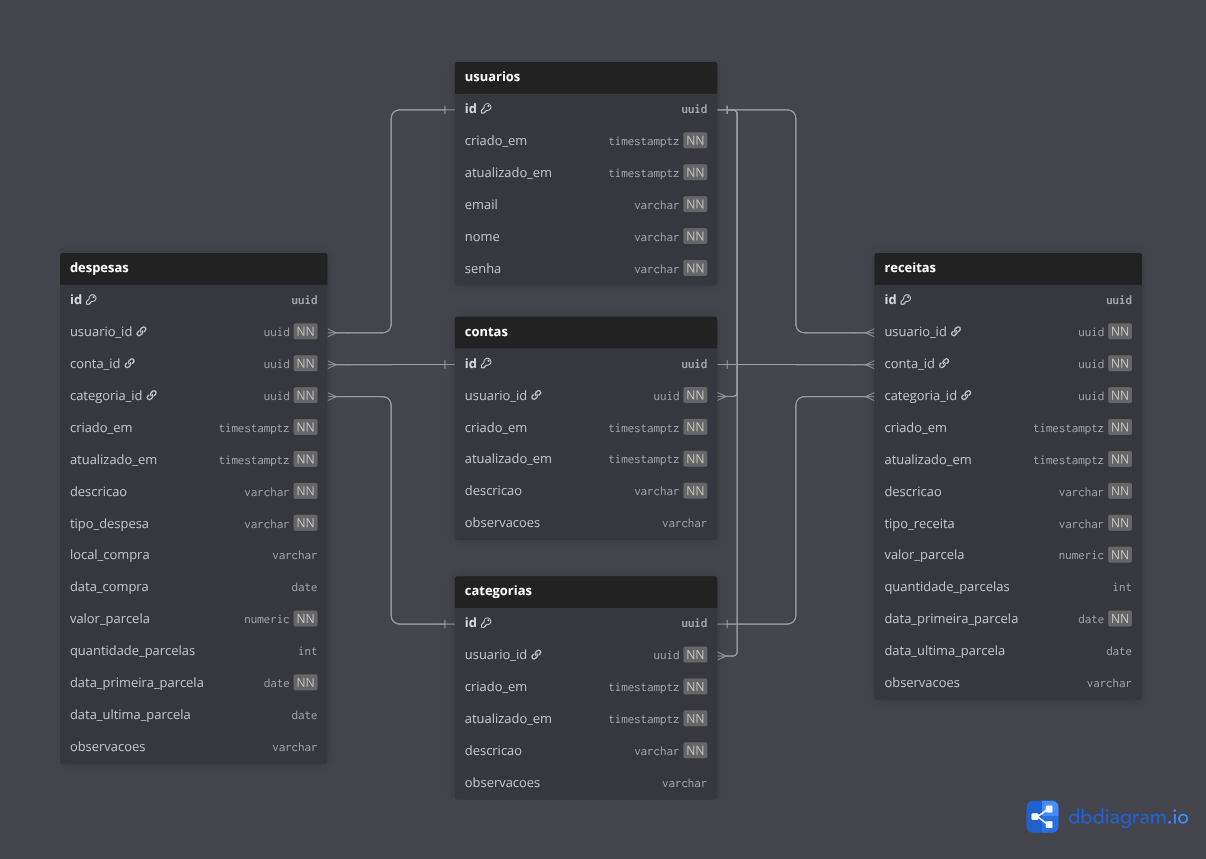
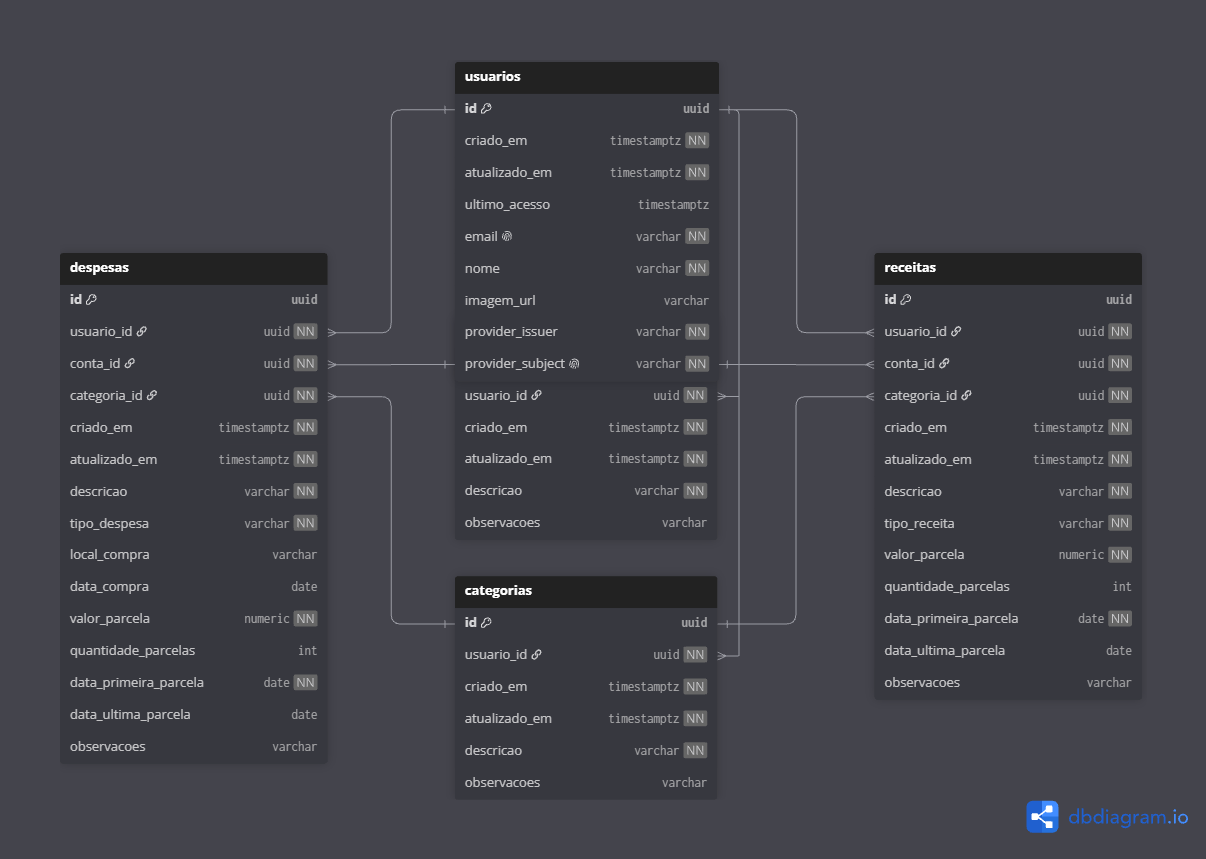
docs: alinha prd ao erd e ao diagrama de classes

diff --git a/docs/README.md b/docs/README.md
@@ -16,8 +16,8 @@ Entenda por que o Aureus existe e o que a V1 precisa resolver.
 
 Esta seção explica como o produto será estruturado depois que o PRD definiu o porquê e o quê.
 
-- **[Modelo de dados](technical/data-model/aureus-erd.dbml)** (Em revisão) — ERD, fonte DBML e premissas. Veja também o diagrama [PNG](technical/data-model/aureus-erd.png). O modelo ainda contém tabelas que divergem da V1 (como `usuarios`), o que será resolvido em uma decisão arquitetural.
-- **[Modelo de domínio](technical/domain-model/class-diagram.md)** (Em revisão) — Diagrama de classes e fonte Mermaid.
+- **[Modelo de dados](technical/data-model/aureus-erd.dbml)** — ERD, fonte DBML e premissas. Veja também o diagrama [PNG](technical/data-model/aureus-erd.png).
+- **[Modelo de domínio](technical/domain-model/class-diagram.md)** — Diagrama de classes e fonte Mermaid.
   
 *A arquitetura final ainda será produzida. Por isso, ERD e domínio são referências de trabalho, não contratos finais.*
 
@@ -39,7 +39,7 @@ Abaixo estão as referências de mockups e especificações para a V1, definindo
 
 Registre decisões que alterem escopo, entendimento ou coerência entre produto e técnica na pasta `decisions/`, usando o formato `YYYY-MM-DD-slug.md`. Cada decisão deve conter: contexto, decisão, impacto, status e links para as fontes afetadas.
 
-- [Autenticação na V1](decisions/2026-08-13-autenticacao-v1.md) — decisão pendente sobre a divergência entre PRD e modelos técnicos.
+- [Autenticação na V1](decisions/2026-08-13-autenticacao-v1.md) — adota OAuth 2.0 (Google), substituindo a senha local e isolando dados por usuário.
 
 ---
 *Nota: A pasta `_bmad-output/` na raiz mantém a trilha histórica de geração dos agentes e não substitui esta biblioteca pública consolidada.*

diff --git a/docs/technical/domain-model/class-diagram.md b/docs/technical/domain-model/class-diagram.md
@@ -1,18 +1,19 @@
 ---
 title: Modelo de domínio Java
-status: em revisão
+status: final
 ---
 
 # Diagrama de classes
 
-Este é um rascunho de domínio. `Conta`, `Categoria`, `Despesa` e `Receita` compõem o contexto financeiro; `Parcelamento` representa a distribuição mensal. `Usuario` permanece no desenho por compatibilidade histórica, mas autenticação está fora da V1 conforme o PRD.
+Este modelo de domínio representa o contexto financeiro da V1, incluindo a autenticação com OAuth 2.0 (Google). `Conta`, `Categoria`, `Despesa` e `Receita` compõem o contexto financeiro; `Parcelamento` representa a distribuição mensal. Os dados são isolados por `Usuario`, que armazena a identidade do provedor.
 
 ```mermaid
 classDiagram
+class Usuario { +UUID id +String email +String nome +String imagemUrl +String providerIssuer +String providerSubject +LocalDateTime ultimoAcesso }
 class Conta { +UUID id +String descricao +String observacoes }
 class Categoria { +UUID id +String descricao +String observacoes }
 class TipoMovimento { <<enumeration>> FIXO VARIAVEL }
-class ContextoFinanceiro { +Conta conta +Categoria categoria +TipoMovimento tipoMovimento }
+class ContextoFinanceiro { +Usuario usuario +Conta conta +Categoria categoria +TipoMovimento tipoMovimento }
 class Parcelamento { +BigDecimal valorParcela +Integer quantidadeParcelas +LocalDate dataPrimeiraParcela +LocalDate dataUltimaParcela }
 class Despesa { +UUID id +ContextoFinanceiro contexto +Parcelamento parcelamento +String descricao }
 class Receita { +UUID id +ContextoFinanceiro contexto +Parcelamento parcelamento +String descricao }

diff --git a/_bmad-output/implementation-artifacts/spec-sync-auth-models.md b/_bmad-output/implementation-artifacts/spec-sync-auth-models.md
@@ -1,0 +1,20 @@
+---
+title: 'Sync Auth Models'
+type: 'story'
+created: '2026-08-17'
+status: 'done'
+route: 'one-shot'
+---
+
+# Sync Auth Models
+
+## Intent
+
+**Problem:** The technical models (ERD and class diagram) still represented legacy local password authentication, which was deprecated in favor of Google OAuth 2.0 in the V1 PRD.
+**Approach:** Removed local password fields and added Google OAuth 2.0 identity fields (`provider_issuer`, `provider_subject`) to the data model and domain class diagram. Added `Usuario` explicitly to the class diagram and updated `README.md` to finalize the authentication decision.
+
+## Suggested Review Order
+
+1. [docs/technical/data-model/aureus-erd.dbml](../../docs/technical/data-model/aureus-erd.dbml) — Updated `usuarios` table with OAuth fields, image URL, and last access.
+2. [docs/technical/domain-model/class-diagram.md](../../docs/technical/domain-model/class-diagram.md) — Replaced draft status, added `Usuario` entity with OAuth fields, linked to `ContextoFinanceiro`.
+3. [docs/README.md](../../docs/README.md) — Updated ADR status to finalize the authentication decision.

diff --git a/_bmad-output/implementation-artifacts/deferred-work.md b/_bmad-output/implementation-artifacts/deferred-work.md
@@ -1,0 +1,18 @@
+- source_spec: `none`
+  summary: Regenerate aureus-erd.png
+  evidence: The static image is out of sync with the updated DBML after adding OAuth2 fields.
+- source_spec: `none`
+  summary: Add session/refresh token entity to data and domain models
+  evidence: Required for full OAuth2 implementation, but out of scope for the immediate structural sync.
+- source_spec: `none`
+  summary: Add audit attributes to domain classes (Conta, Categoria, Despesa, Receita)
+  evidence: These classes are missing criadoEm/atualizadoEm which exist in the DBML.
+- source_spec: `none`
+  summary: Sync Despesa attributes between class diagram and DBML
+  evidence: Class diagram is missing localCompra, dataCompra, and observacoes that are defined in DBML.
+- source_spec: `none`
+  summary: Sync Receita attributes between class diagram and DBML
+  evidence: Class diagram is missing observacoes defined in DBML.
+- source_spec: `none`
+  summary: Resolve structural discrepancy for TipoMovimento
+  evidence: DBML stores fixed/variable directly on transactions, while class diagram abstracts it via ContextoFinanceiro.
